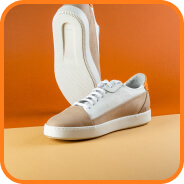
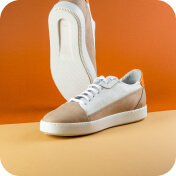
Update active showcase img on thubnail click

Changed region(s): [[0.0, 0.0, 1.0, 1.0], [0.483, 0.2841, 0.5114, 0.3409], [0.4545, 0.5966, 0.483, 0.625]]

diff --git a/index.html b/index.html
@@ -119,31 +119,31 @@
 
                         <ul class="img-showcase__thumbnails">
                             <li class="img-showcase__thumbnail img-showcase__thumbnail--active">
-                                <button type="button" aria-label="Sneakers 1" class="img-showcase__thumbnail-button">
+                                <button class="img-showcase__thumbnail-button js-img-showcase__thumbnail-button" type="button" aria-label="Sneakers 1" data-img-showcase-big="img/mainSneak.jpg" data-img-showcase-retina="img/mainSneak@2x.jpg">
                                     <img class="img-showcase__thumbnail-img" src="img/thumbSneak.jpg" alt="Sneakers 1" width="88" height="88" srcset="img/thumbSneak.jpg 1x, img/thumbSneak@2x.jpg 2x">
                                 </button>
                             </li>
 
                             <li class="img-showcase__thumbnail">
-                                <button type="button" aria-label="Sneakers 2" class="img-showcase__thumbnail-button">
+                                <button class="img-showcase__thumbnail-button js-img-showcase__thumbnail-button" type="button" aria-label="Sneakers 2" data-img-showcase-big="img/mainThumbSneak2.jpg" data-img-showcase-retina="img/mainThumbSneak2@2x.jpg">
                                     <img src="img/thumbSneak2.jpg" alt="Sneakers 2" class="img-showcase__thumbnail-img" width="88" height="88" srcset="img/thumbSneak2.jpg 1x, img/thumbSneak2@2x.jpg 2x">
                                 </button>
                             </li>
 
                             <li class="img-showcase__thumbnail">
-                                <button type="button" aria-label="Sneakers 3" class="img-showcase__thumbnail-button">
+                                <button class="img-showcase__thumbnail-button js-img-showcase__thumbnail-button" type="button" aria-label="Sneakers 3" data-img-showcase-big="img/mainThumbSneak3.jpg" data-img-showcase-retina="img/mainThumbSneak3@2x.jpg">
                                     <img src="img/thumbSneak3.jpg" alt="Sneakers 3" class="img-showcase__thumbnail-img" width="88" height="88" srcset="img/thumbSneak3.jpg 1x, img/thumbSneak3@2x.jpg 2x">
                                 </button>
                             </li>
 
                             <li class="img-showcase__thumbnail">
-                                <button type="button" aria-label="Sneakers 4" class="img-showcase__thumbnail-button">
+                                <button class="img-showcase__thumbnail-button js-img-showcase__thumbnail-button" type="button" aria-label="Sneakers 4" data-img-showcase-big="img/mainThumbSneak4.jpg" data-img-showcase-retina="img/mainThumbSneak4@2x.jpg">
                                     <img src="img/thumbSneak4.jpg" alt="Sneakers 4" class="img-showcase__thumbnail-img" width="88" height="88" srcset="img/thumbSneak4.jpg 1x, img/thumbSneak4@2x.jpg 2x">
                                 </button>
                             </li>
 
                             <li class="img-showcase__thumbnail">
-                                <button type="button" aria-label="Sneakers 4" class="img-showcase__thumbnail-button">
+                                <button class="img-showcase__thumbnail-button js-img-showcase__thumbnail-button" type="button" aria-label="Sneakers 4" data-img-showcase-big="" data-img-showcase-retina="">
                                     <img src="img/thumbSneak4.jpg" alt="Sneakers 4" class="img-showcase__thumbnail-img" width="88" height="88" srcset="img/thumbSneak4.jpg 1x, img/thumbSneak4@2x.jpg 2x">
                                 </button>
                             </li>

diff --git a/js/main.js b/js/main.js
@@ -1,12 +1,39 @@
+const modifier = {
+    imgThumbnailActive : "img-showcase__thumbnail--active",
+    elSiteHeaderCartModal : "site-header__cart-modal--open"
+}
+
+// Shopping cart modal
 const elSiteHeaderCartLink = document.querySelector('.js-site-header__cart-link');
 const elSiteHeaderCartModal = document.querySelector('.site-header__cart-modal');
-
-
 
 if (elSiteHeaderCartLink){
     elSiteHeaderCartLink.addEventListener("click", function (evt) {
         evt.preventDefault();
 
-        elSiteHeaderCartModal.classList.toggle("site-header__cart-modal--open");
+        elSiteHeaderCartModal.classList.toggle(modifier.elSiteHeaderCartModal);
+    })
+}
+
+// Image showcase
+const elImgShowcaseActiveImg = document.querySelector('.img-showcase__active-img');
+const elsImgShowcaseThumbnailButton = document.querySelectorAll(".js-img-showcase__thumbnail-button");
+const elsImgThumbnails = document.querySelectorAll('.img-showcase__thumbnail');
+
+
+if (elsImgShowcaseThumbnailButton) {
+    elsImgShowcaseThumbnailButton.forEach(function (elButton) {
+        elButton.addEventListener('click', function () {
+            // Remove active state from all buttons
+            elsImgThumbnails.forEach(function (elImgThumbnail) {
+                elImgThumbnail.classList.remove(modifier.imgThumbnailActive);
+            })
+            // Add active stato to clicked button
+            elButton.parentElement.classList.add(modifier.imgThumbnailActive);
+
+            // Upda active img src accordingly
+            elImgShowcaseActiveImg.src = elButton.dataset.imgShowcaseBig
+            elImgShowcaseActiveImg.srcset = `${elButton.dataset.imgShowcaseBig} 1x, ${elButton.dataset.imgShowcaseRetina} 2x`
+        })
     })
 }
